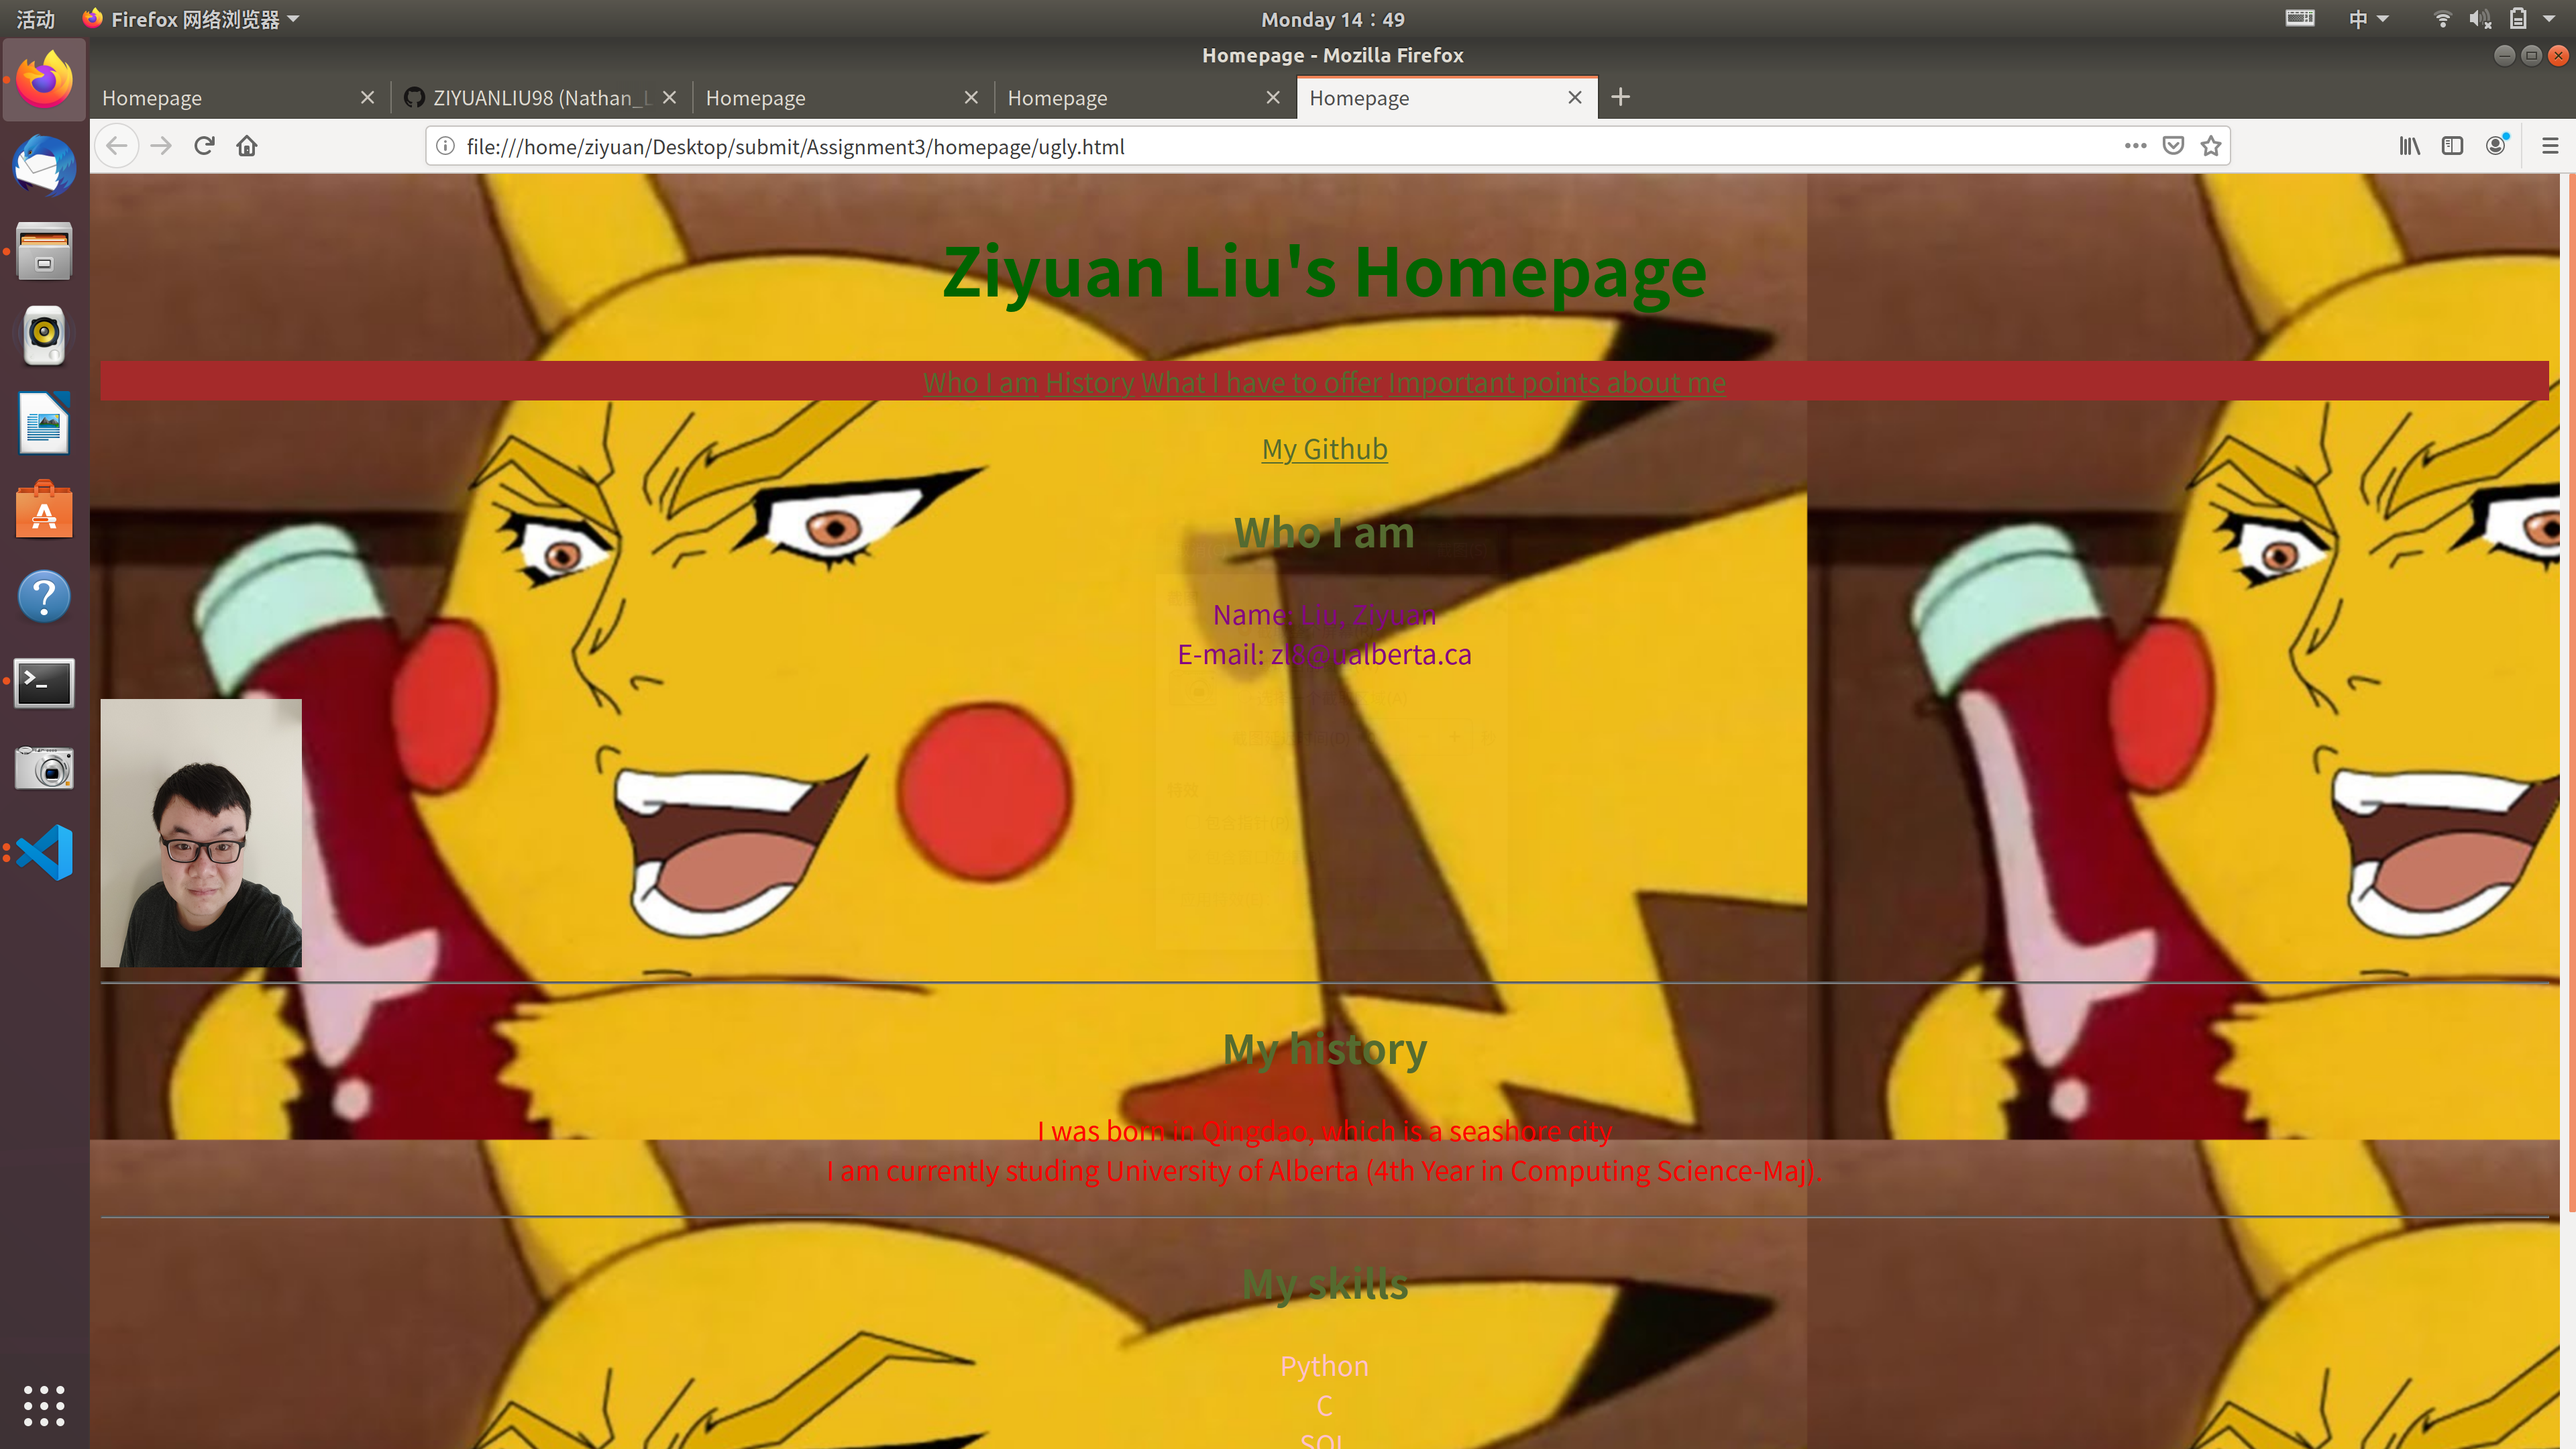
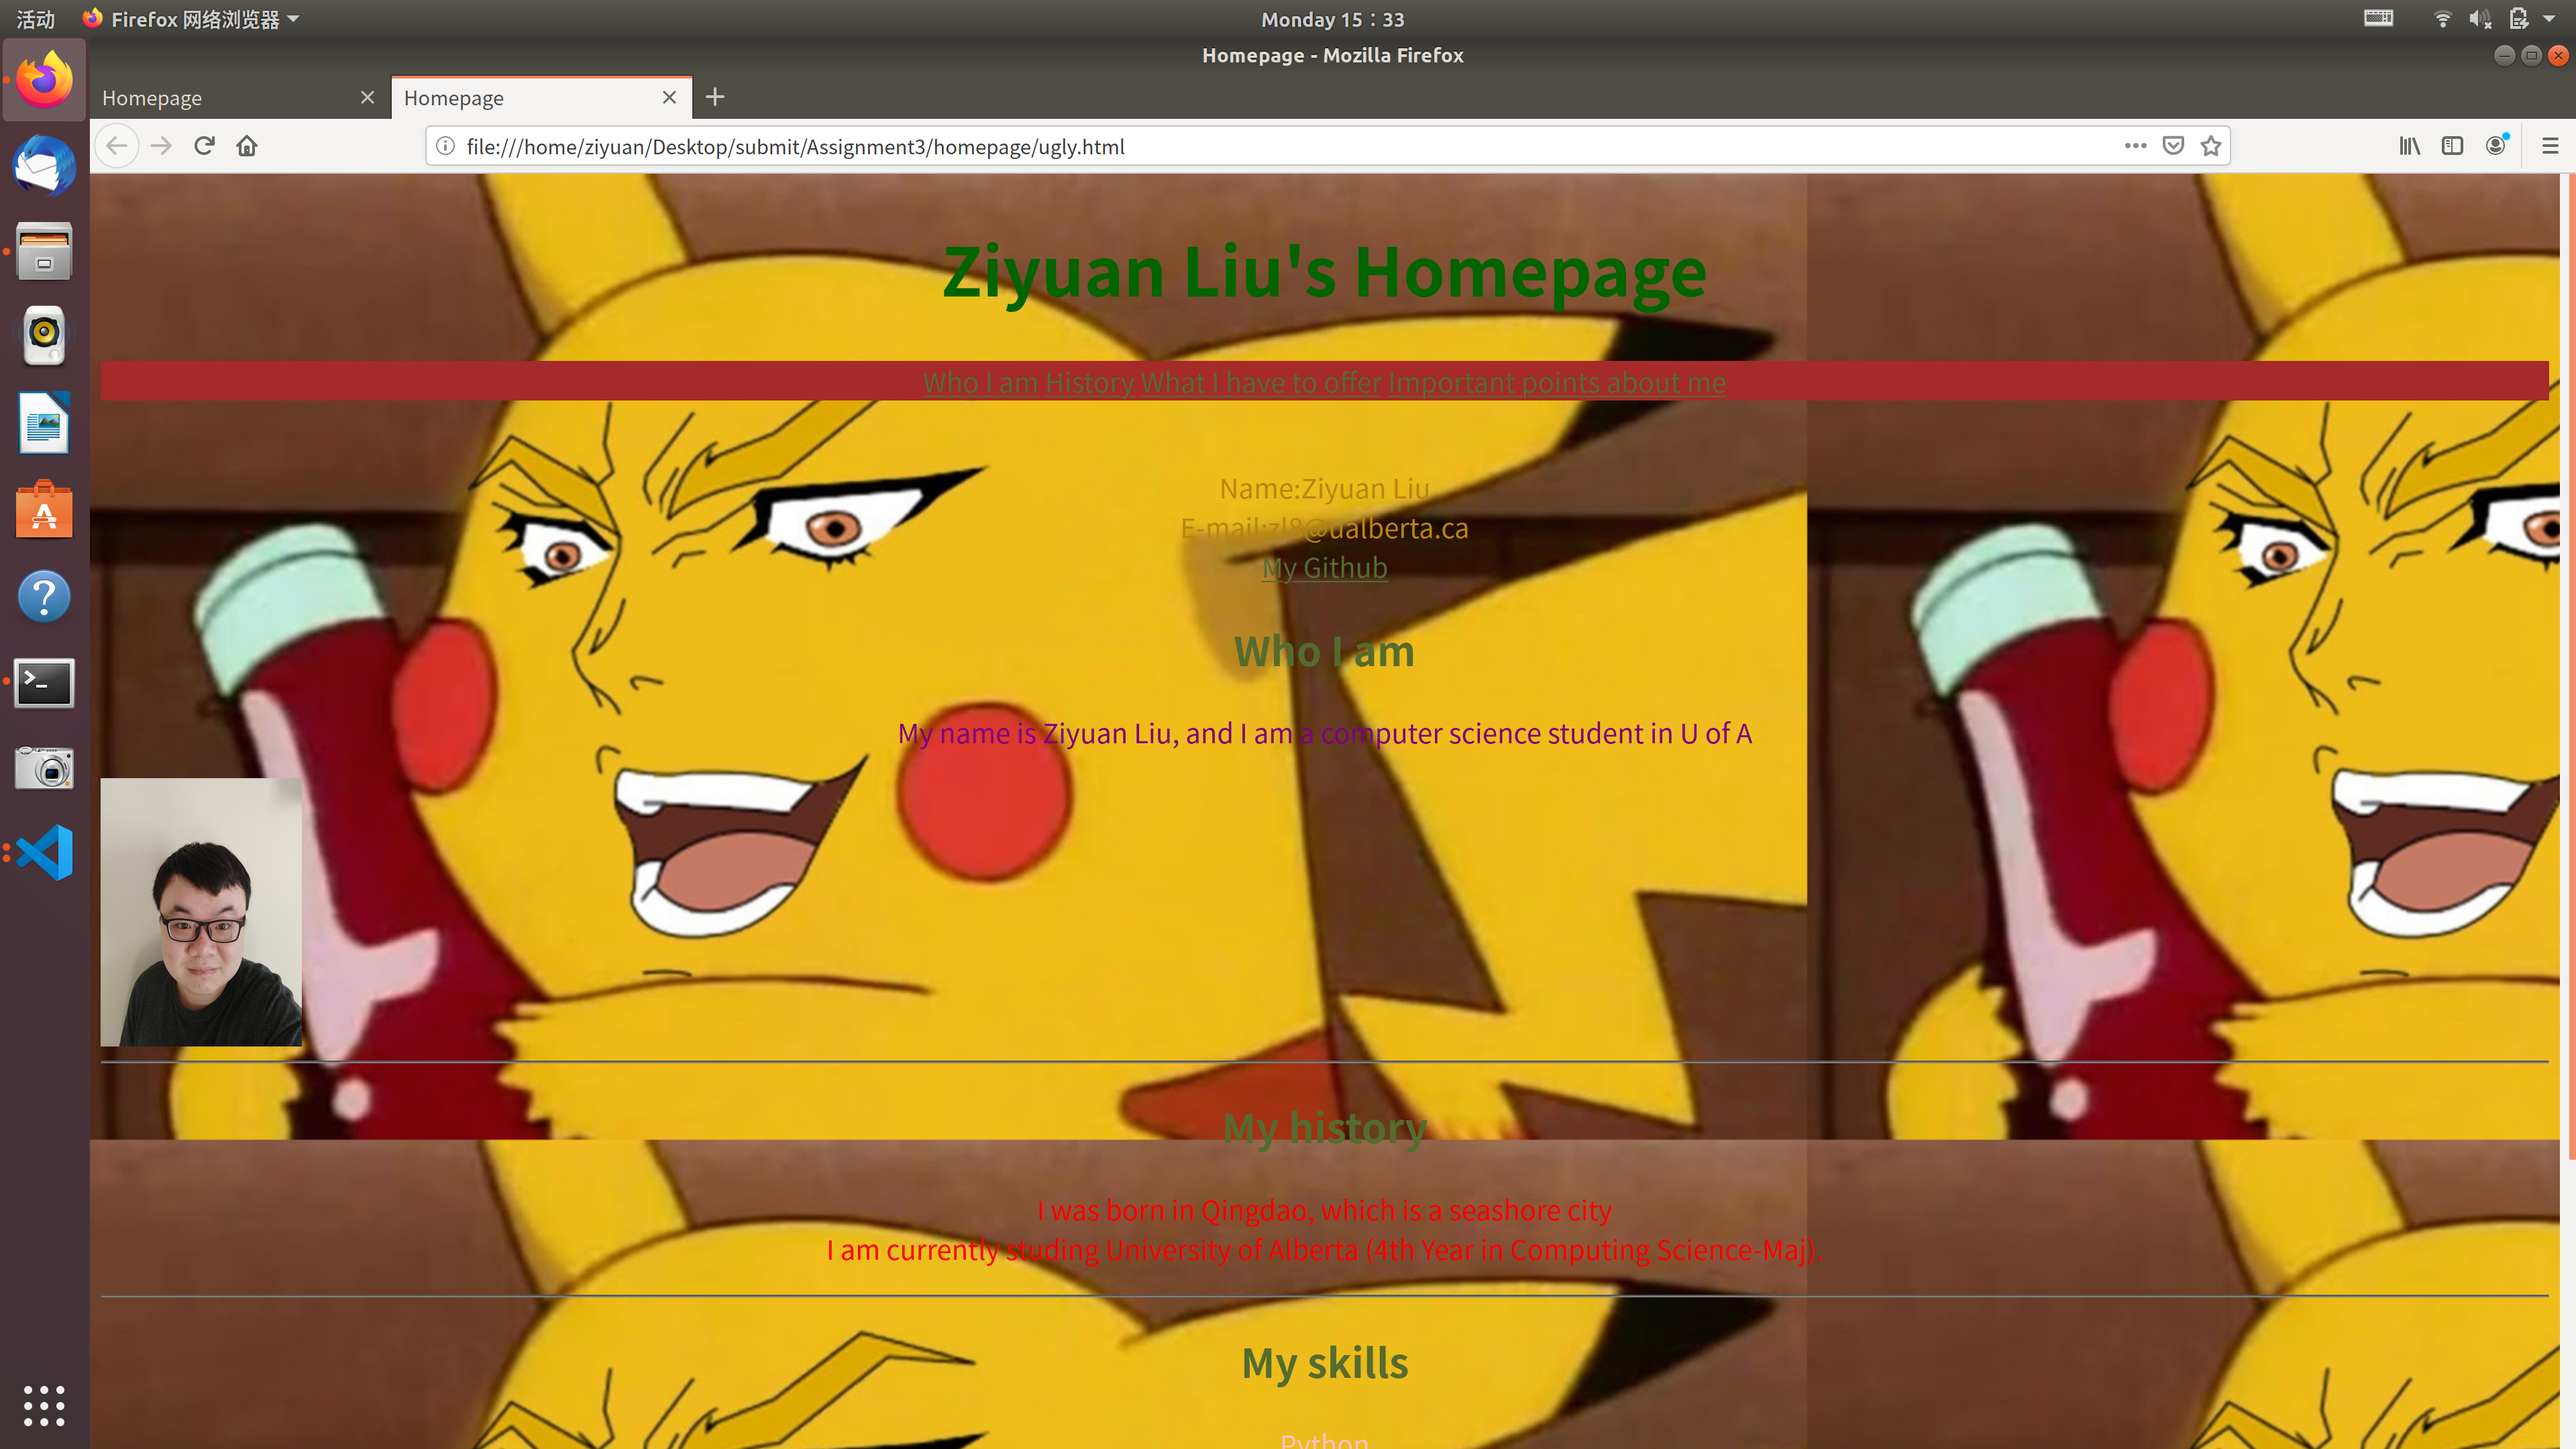
123

diff --git a/homepage/good.html b/homepage/good.html
@@ -5,7 +5,10 @@
 <link rel="stylesheet" type="text/css" href="goodstyle.css">
 </head>
 <body >
-    <div class="top">
+    
+        
+    
+    <div class="content">
         <div class="header">
             <h1>Ziyuan Liu's Homepage</h1>
         </div>
@@ -17,18 +20,17 @@
                 <a href="#important">Important points about me </a>
             </p>
         </div>
-    </div>
-    <div class="content">
         <div class="sidebar">
            <p>
-               <a href=https://github.com/ZIYUANLIU98>My Github</a> </p>
+            <br>Name:Ziyuan Liu
+        <br>E-mail:zl8@ualberta.ca
+        <br><a href=https://github.com/ZIYUANLIU98>My Github</a> </p>
         </div>
         <div class="intro">
         <div>   
             <div class="left">
                 <h2><a id="who">Who I am</a></h2>
-                <p class=purple>Name: Liu, Ziyuan
-                <br>E-mail: zl8@ualberta.ca</p>
+                <p class=purple>My name is Ziyuan Liu, and I am a computer science student in U of A</p>
             </div>
             <div class="right">
                 <img src="images/img1.jpg"

diff --git a/homepage/ugly.html b/homepage/ugly.html
@@ -5,7 +5,10 @@
 <link rel="stylesheet" type="text/css" href="uglystyle.css">
 </head>
 <body >
-    <div class="top">
+    
+        
+    
+    <div class="content">
         <div class="header">
             <h1>Ziyuan Liu's Homepage</h1>
         </div>
@@ -17,18 +20,17 @@
                 <a href="#important">Important points about me </a>
             </p>
         </div>
-    </div>
-    <div class="content">
         <div class="sidebar">
            <p>
-               <a href=https://github.com/ZIYUANLIU98>My Github</a> </p>
+            <br>Name:Ziyuan Liu
+        <br>E-mail:zl8@ualberta.ca
+        <br><a href=https://github.com/ZIYUANLIU98>My Github</a> </p>
         </div>
         <div class="intro">
         <div>   
             <div class="left">
                 <h2><a id="who">Who I am</a></h2>
-                <p class=purple>Name: Liu, Ziyuan
-                <br>E-mail: zl8@ualberta.ca</p>
+                <p class=purple>My name is Ziyuan Liu, and I am a computer science student in U of A</p>
             </div>
             <div class="right">
                 <img src="images/img1.jpg"

diff --git a/homepage/goodstyle.css b/homepage/goodstyle.css
@@ -30,17 +30,19 @@ div {
     float:right;
 }
 .header {
-    background: linear-gradient(to right,lightblue,white);
+    background: gray;
     width: 100%;
 }
 .links{
-    background: linear-gradient(to right,lightblue,white);
+    background: lightblue;
     text-align: center;
 }
 a{padding:0 10px;}
 
 body{
-    margin-left: auto;
+    margin-left: 30px;
+    margin-right: 30px;
+    background-color: lightslategray;
 }
 
 img{
@@ -49,8 +51,7 @@ img{
 
 .sidebar{
     float: left;
-    width: 200px;
     height: 100%;
-    background: gray;
+    background: lightgray;
     bottom: 0;
 }
